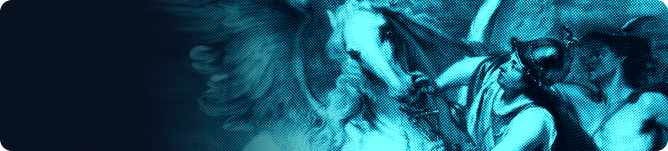
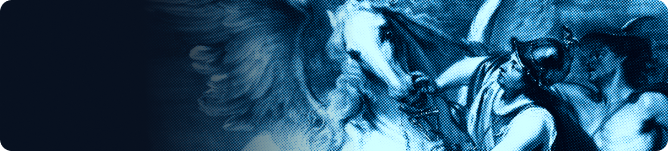
fix: cards images for mobile/desktop and lightmode/darkmode

diff --git a/container/Airdrop/index.tsx b/container/Airdrop/index.tsx
@@ -1,5 +1,13 @@
 import { NextPage } from "next";
-import { Button, Flex, Icon, Img, Link, Text } from "@chakra-ui/react";
+import {
+	Button,
+	Flex,
+	Icon,
+	Img,
+	Link,
+	Text,
+	useMediaQuery,
+} from "@chakra-ui/react";
 import { usePicasso, useWallet } from "hooks";
 import { SiDiscord, SiTwitter } from "react-icons/si";
 import { FaTelegramPlane } from "react-icons/fa";
@@ -9,6 +17,7 @@ import { BorderAnimation } from "components/Airdrop/BorderAnimation";
 
 export const AirdropContainer: NextPage = () => {
 	const theme = usePicasso();
+	const [isMobile] = useMediaQuery("(max-width: 480px)");
 
 	const { isConnected } = useWallet();
 
@@ -36,10 +45,9 @@ export const AirdropContainer: NextPage = () => {
 					borderTopRadius="2xl"
 					backgroundColor="transparent"
 					w={["20rem", "md", "2xl", "2xl"]}
-					box-shadow=" 0px 20px 25px -5px rgba(0, 0, 0, 0.1), 0px 10px 10px -5px rgba(0, 0, 0, 0.04)"
 				>
 					<Img
-						src={theme.bg.psysAirdrop}
+						src={isMobile ? theme.bg.aidropBannerMobile : theme.bg.psysAirdrop}
 						position="absolute"
 						zIndex="base"
 						w="100%"

diff --git a/hooks/usePicasso.ts b/hooks/usePicasso.ts
@@ -95,8 +95,20 @@ const usePicasso = () => {
 				"images/backgrounds/BannerPools.png"
 			),
 			poolsBannerMobile: useColorModeValue(
-				"images/backgrounds/LightBannerPool.png",
+				"images/backgrounds/BannerPoolsMobileLightmode.png",
 				"images/backgrounds/BannerPoolsMobile.png"
+			),
+			farmBannerMobile: useColorModeValue(
+				"images/backgrounds/BannerFarmMobileLightmode.png",
+				"images/backgrounds/BannerFarmMobileDarkMode.png"
+			),
+			stakeBannerMobile: useColorModeValue(
+				"images/backgrounds/BannerStakeMobileLightmode.png",
+				"images/backgrounds/BannerStakeMobileDarkmode.png"
+			),
+			aidropBannerMobile: useColorModeValue(
+				"images/backgrounds/BannerAidropMobileLightmode.png",
+				"images/backgrounds/BannerAidropMobileDarkmode.png"
 			),
 			farmActions: useColorModeValue("white", "#0B172C"),
 			max: useColorModeValue("#EDF2F7", "#081120"),

diff --git a/container/Stake/index.tsx b/container/Stake/index.tsx
@@ -1,4 +1,4 @@
-import { Button, Flex, Img, Text } from "@chakra-ui/react";
+import { Button, Flex, Img, Text, useMediaQuery } from "@chakra-ui/react";
 import { StakeCards } from "components/Stake/StakeCard";
 import { usePicasso } from "hooks";
 import { NextPage } from "next";
@@ -8,6 +8,7 @@ import { MdOutlineCallMade } from "react-icons/md";
 export const StakeContainer: NextPage = () => {
 	const theme = usePicasso();
 	const [buttonId, setButtonId] = useState<string>("");
+	const [isMobile] = useMediaQuery("(max-width: 480px)");
 
 	return (
 		<Flex
@@ -27,7 +28,7 @@ export const StakeContainer: NextPage = () => {
 				>
 					<Img
 						borderRadius="xl"
-						src={theme.bg.stakeBanner}
+						src={isMobile ? theme.bg.stakeBannerMobile : theme.bg.stakeBanner}
 						position="absolute"
 						zIndex="base"
 						w="100%"

diff --git a/container/Pools/index.tsx b/container/Pools/index.tsx
@@ -10,6 +10,7 @@ import {
 	MenuList,
 	Text,
 	InputLeftElement,
+	useMediaQuery,
 } from "@chakra-ui/react";
 import {
 	AddLiquidityModal,
@@ -34,6 +35,7 @@ export const PoolsContainer: NextPage = () => {
 		onCloseAddLiquidity,
 	} = useModal();
 
+	const [isMobile] = useMediaQuery("(max-width: 480px)");
 	const [isCreate, setIsCreate] = useState(false);
 	const [haveValue] = useState(false);
 	const { isConnected } = useWallet();
@@ -73,7 +75,7 @@ export const PoolsContainer: NextPage = () => {
 					>
 						<Img
 							borderRadius="xl"
-							src={theme.bg.poolsBannerMobile}
+							src={isMobile ? theme.bg.poolsBannerMobile : theme.bg.poolsBanner}
 							position="absolute"
 							zIndex="base"
 							w="100%"

diff --git a/container/Farm/index.tsx b/container/Farm/index.tsx
@@ -11,6 +11,7 @@ import {
 	MenuButton,
 	Icon,
 	Box,
+	useMediaQuery,
 } from "@chakra-ui/react";
 import { FarmCards } from "components/Farm/FarmCards";
 import { usePicasso } from "hooks";
@@ -19,6 +20,7 @@ import { MdOutlineCallMade, MdSearch, MdExpandMore } from "react-icons/md";
 
 export const FarmContainer: NextPage = () => {
 	const theme = usePicasso();
+	const [isMobile] = useMediaQuery("(max-width: 480px)");
 
 	return (
 		<Flex
@@ -38,7 +40,7 @@ export const FarmContainer: NextPage = () => {
 				>
 					<Img
 						borderRadius="xl"
-						src={theme.bg.farmBanner}
+						src={isMobile ? theme.bg.farmBannerMobile : theme.bg.farmBanner}
 						position="absolute"
 						zIndex="base"
 						w="100%"
